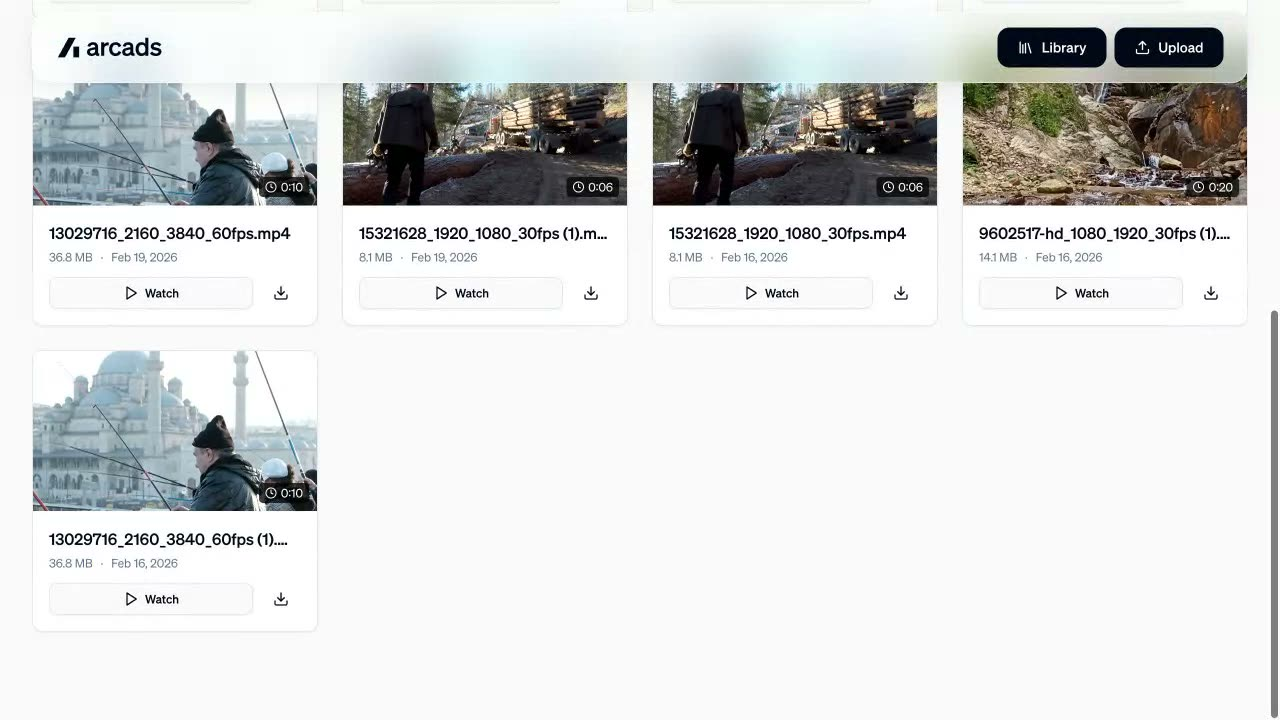
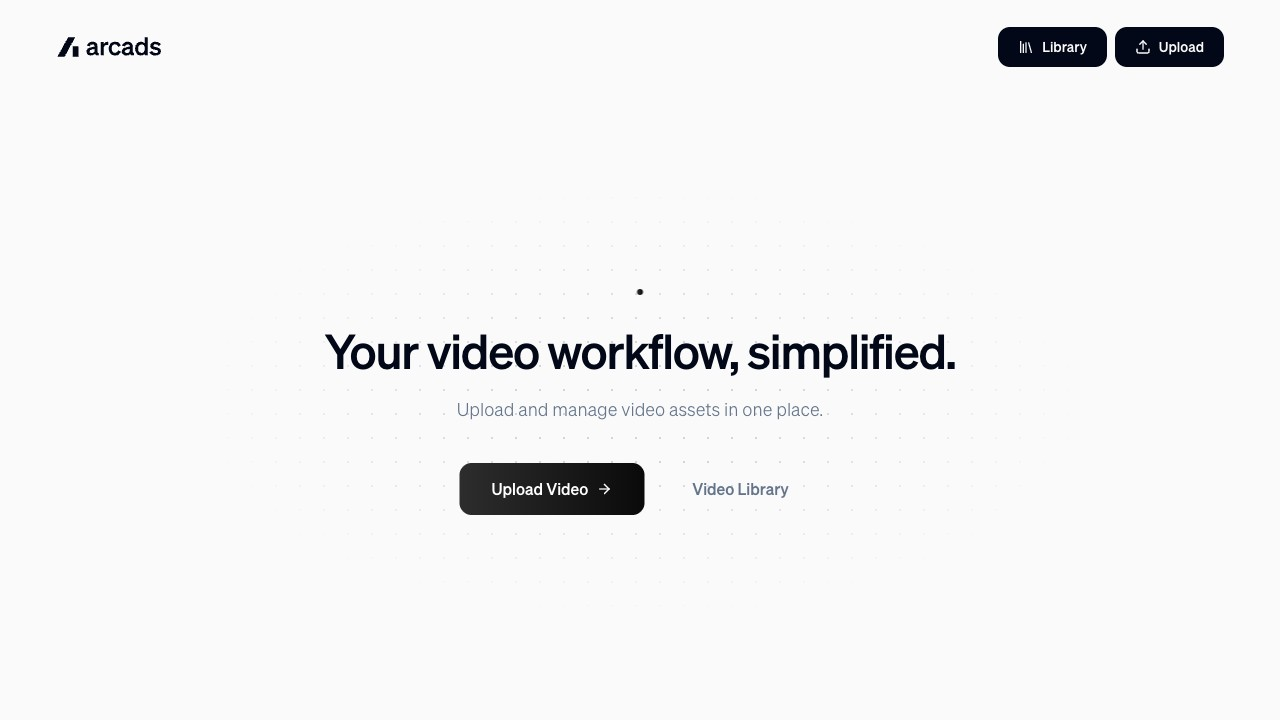
Use Arcads splash as poster and mute Basalt YouTube embed
Replace the Arcads library-grid frame with the landing splash ("Your
video workflow, simplified.") so the thumbnail reads as a brand
moment, and pass mute=1 on the Basalt YouTube short so audio stays
silent when it auto-plays.

diff --git a/src/components/Figure.tsx b/src/components/Figure.tsx
@@ -27,7 +27,7 @@ export function Figure({ project }: { project: Project }) {
       <figure className={`figure${isPortrait ? ' figure--portrait' : ''}`}>
         <div className={frameClass} data-label={label}>
           <iframe
-            src={`https://www.youtube-nocookie.com/embed/${project.media.id}`}
+            src={`https://www.youtube-nocookie.com/embed/${project.media.id}?mute=1`}
             title={`${project.name} — video`}
             allow="accelerometer; clipboard-write; encrypted-media; picture-in-picture"
             allowFullScreen
